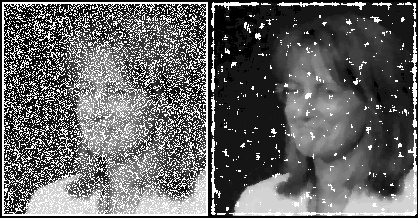
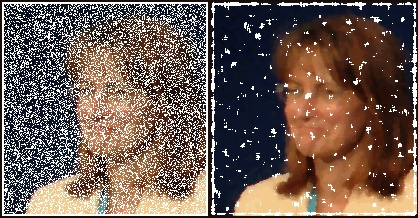
Image_Procesing

diff --git a/assignment32/3.py b/assignment32/3.py
@@ -17,5 +17,5 @@ noise_canceling ("inputs\input_3_xray.png" , "outputs\output_3_xray.jpg" , "gray
 noise_canceling ("inputs\input_3_board.png" , "outputs\output_3_board.jpg" , "gray")
 noise_canceling ("inputs\input_3_image.png" , "outputs\output_3_image.jpg" , "gray")
 noise_canceling ("inputs\input_3_balloones.png" , "outputs\output_3_balloones.jpg" , "all")
-noise_canceling ("inputs\input_3_laidy.png" , "outputs\output_3_laidy.jpg" , "gray")
+noise_canceling ("inputs\input_3_laidy.png" , "outputs\output_3_laidy.jpg" , "all")
 noise_canceling ("inputs\input_3_a.png" , "outputs\output_3_a.jpg" , "gray")

diff --git a/assignment32/4.py b/assignment32/4.py
@@ -1,0 +1,8 @@
+
+import cv2
+import numpy as np 
+
+img = cv2.imread ()
+
+cv2.imshow ("" , img)
+cv2.waitKey ()
